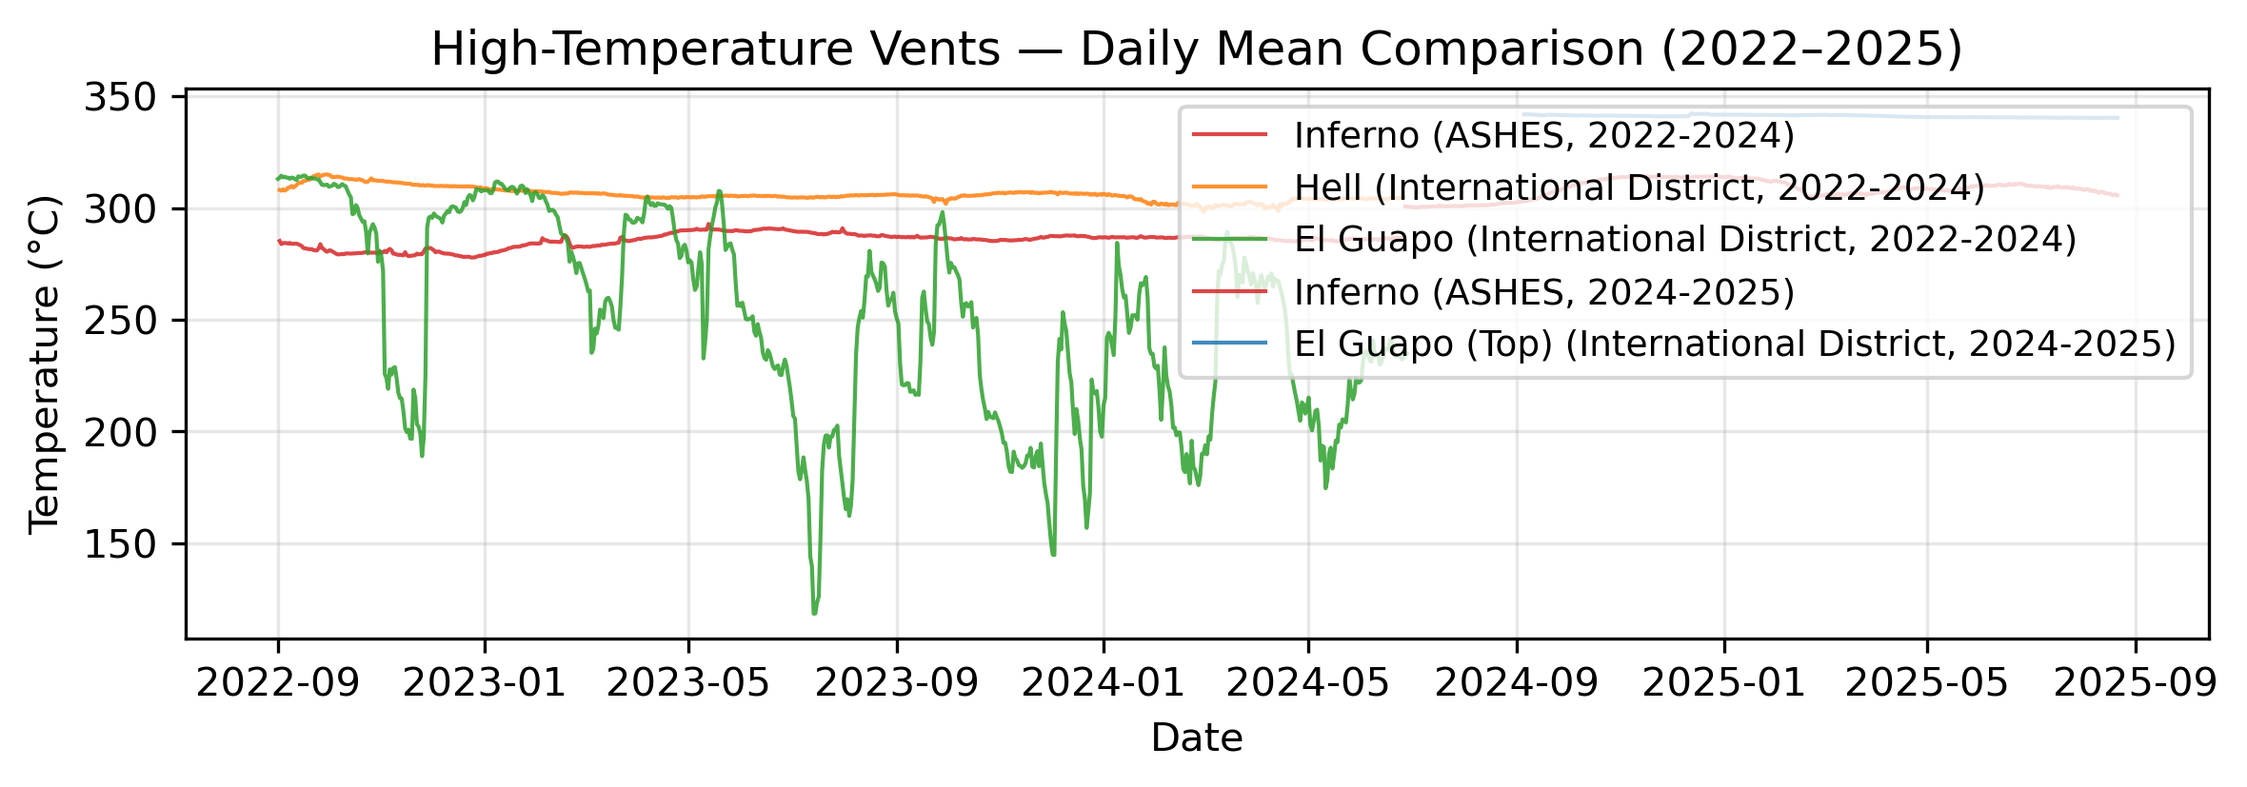
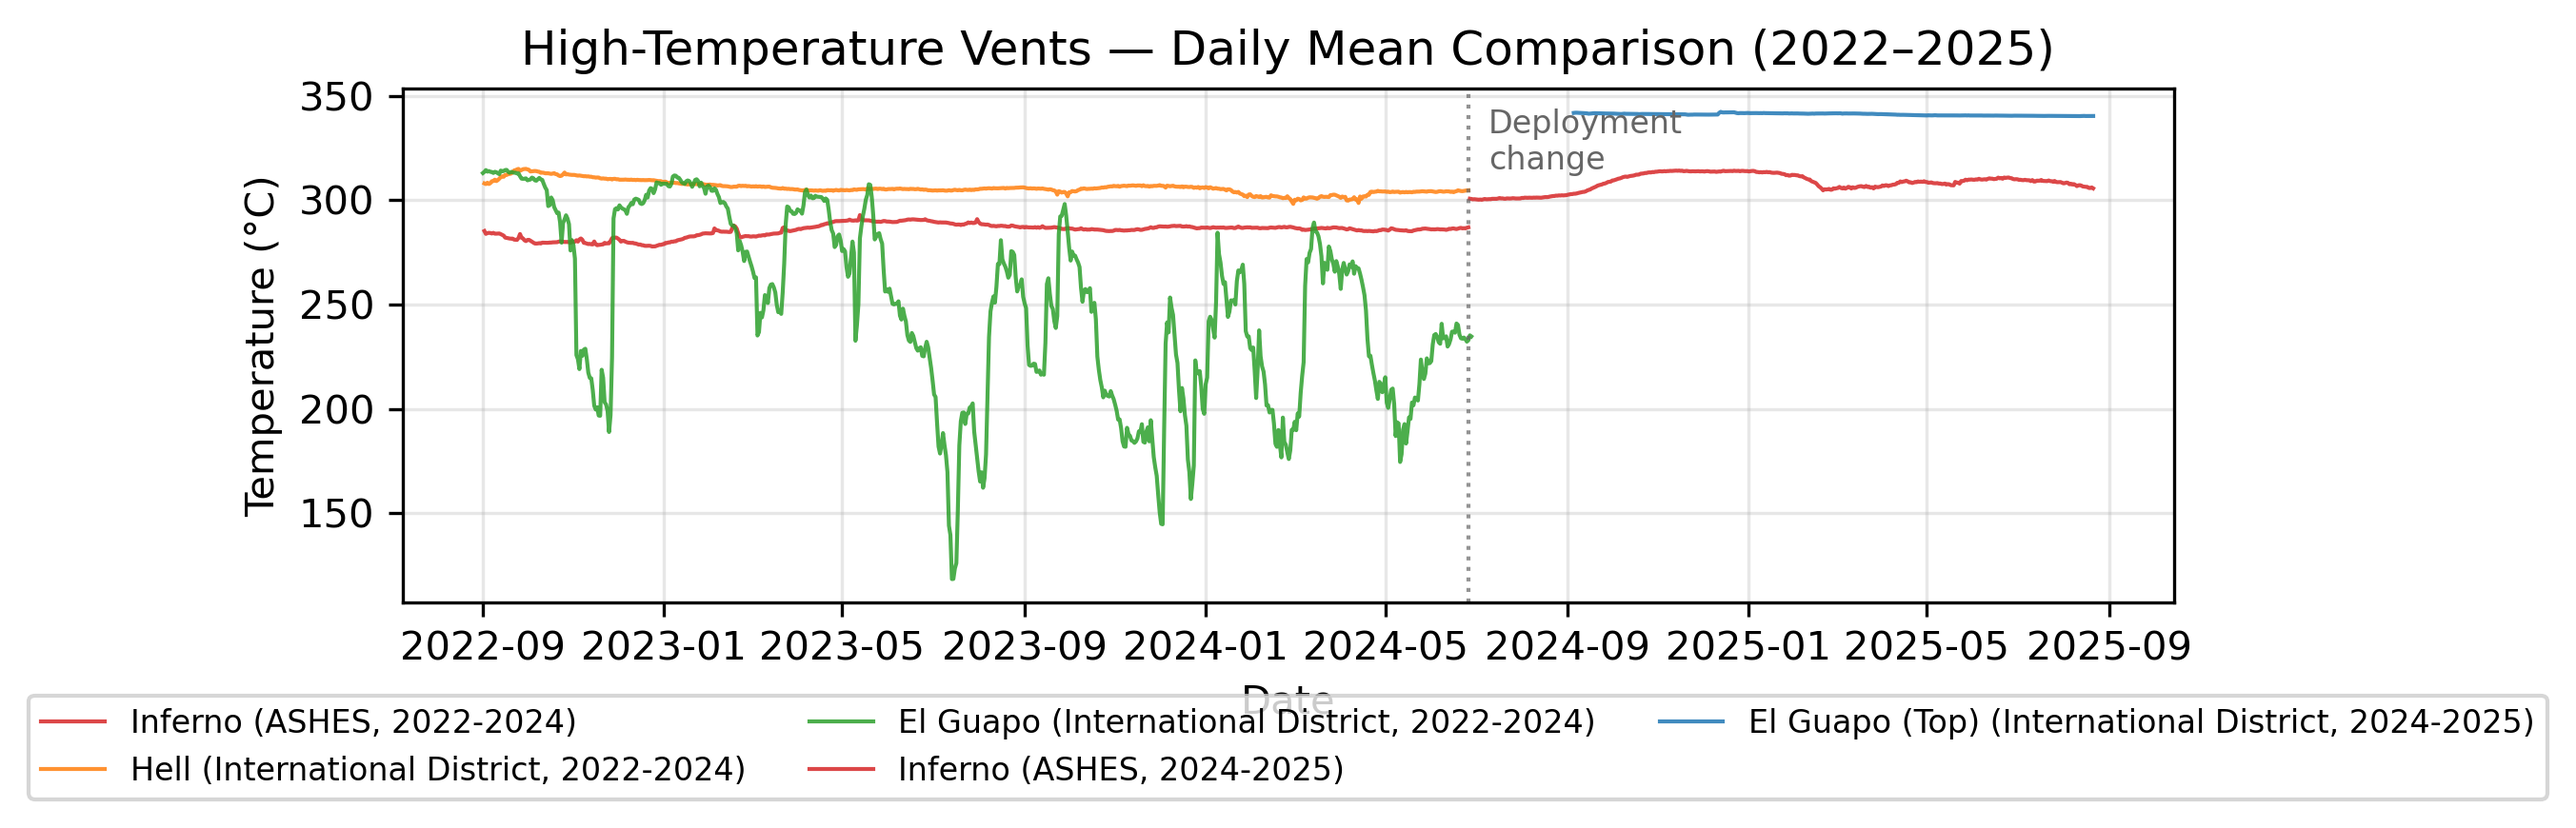
Add TMPSF diffuse flow panel to poster figure with deployment annotations
- Add TMPSF hot channel mean as second panel below vent temperatures
- Exclude channel 06 (sensor issues causing spurious +2.66°C jump)
- Add deployment change annotation (Jun 26, 2024) to all figures
- Move legend outside plot area on high-temp comparison figure
- Rename poster figure to poster_temp_bpr_tmpsf.png

Changed region(s): [[0.0, 0.0302, 0.9898, 0.9674], [0.0309, 0.6651, 0.0928, 0.7255]]

diff --git a/survey.py b/survey.py
@@ -16,6 +16,7 @@ from pathlib import Path
 DATA_2022 = Path("/home/jovyan/my_data/axial/axial_miso/2022_2024_MISO")
 DATA_2024 = Path("/home/jovyan/my_data/axial/axial_miso/2024_2025_MISO")
 BPR_PATH = Path("/home/jovyan/repos/specKitScience/my-analysis_botpt/outputs/data/differential_uplift_daily.parquet")
+TMPSF_PATH = Path("/home/jovyan/repos/specKitScience/my-analysis_tmpsf/outputs/data/tmpsf_2015-2026_daily.parquet")
 
 OUTPUT_DIR = Path(__file__).parent / "outputs"
 DATA_DIR = OUTPUT_DIR / "data"
@@ -316,6 +317,16 @@ def fig_survey_overview(records, fig_path):
         ax.tick_params(labelsize=8)
 
     axes[-1].set_xlabel("Date")
+
+    # Deployment change annotation on all panels
+    deploy_change = pd.Timestamp("2024-06-26")
+    for ax in axes:
+        xlim = ax.get_xlim()
+        xmin_ax = pd.Timestamp.fromordinal(int(xlim[0]))
+        xmax_ax = pd.Timestamp.fromordinal(int(xlim[1]))
+        if xmin_ax <= deploy_change <= xmax_ax:
+            ax.axvline(deploy_change, color="#666666", linestyle=":", linewidth=0.8, alpha=0.7)
+
     fig.suptitle("MISO Temperature Survey — All Recent Instruments (2022–2025)",
                  fontsize=13, fontweight="bold", y=1.01)
     plt.tight_layout()
@@ -343,16 +354,25 @@ def fig_hightemp_comparison(records, summary, fig_path):
     ax.set_xlabel("Date")
     ax.set_ylabel("Temperature (°C)")
     ax.set_title("High-Temperature Vents — Daily Mean Comparison (2022–2025)")
-    ax.legend(loc="upper right", fontsize=9)
+    ax.legend(loc="upper center", bbox_to_anchor=(0.5, -0.15),
+              ncol=3, fontsize=8, frameon=True)
     ax.grid(True, alpha=0.3)
-    plt.tight_layout()
+
+    # Deployment change annotation
+    deploy_change = pd.Timestamp("2024-06-26")
+    ax.axvline(deploy_change, color="#666666", linestyle=":", linewidth=1, alpha=0.7)
+    ax.annotate("Deployment\nchange", xy=(deploy_change, ax.get_ylim()[1]),
+                xytext=(5, -5), textcoords="offset points",
+                fontsize=8, color="#666666", va="top")
+
+    fig.subplots_adjust(bottom=0.25)
     fig.savefig(fig_path, dpi=300, bbox_inches="tight")
     plt.close(fig)
     print(f"Saved: {fig_path}")
 
 
-def fig_poster_bpr(records, summary, bpr, fig_path):
-    """Figure 3: Poster figure — high-temp vents + BPR overlay."""
+def fig_poster_bpr(records, summary, bpr, fig_path, tmpsf=None):
+    """Figure 3: Poster figure — high-temp vents + BPR overlay, with TMPSF panel."""
     high_recs = [r for r, s in zip(records, summary.itertuples())
                  if s.Classification == "High-temp"]
 
@@ -366,7 +386,12 @@ def fig_poster_bpr(records, summary, bpr, fig_path):
         ("El Guapo (Top)", "2024-2025"): {"color": "#2CA02C", "ls": "--", "lw": 1.4, "label": "El Guapo Top (ID, 2024–25)"},
     }
 
-    fig, ax1 = plt.subplots(figsize=(8, 8 * 6 / 14), dpi=300)
+    # Two panels if TMPSF available, otherwise single
+    if tmpsf is not None:
+        fig, (ax1, ax3) = plt.subplots(2, 1, figsize=(8, 8 * 8 / 14), dpi=300,
+                                        height_ratios=[3, 1], sharex=True)
+    else:
+        fig, ax1 = plt.subplots(figsize=(8, 8 * 6 / 14), dpi=300)
 
     for rec in high_recs:
         deployed = rec[rec["deployed"]]
@@ -380,9 +405,8 @@ def fig_poster_bpr(records, summary, bpr, fig_path):
                  color=style["color"], linestyle=style["ls"],
                  linewidth=style["lw"], alpha=0.85, label=style["label"])
 
-    ax1.set_xlabel("Date", fontsize=12)
-    ax1.set_ylabel("Temperature (°C)", fontsize=12)
-    ax1.tick_params(labelsize=10)
+    ax1.set_ylabel("Vent Temperature (°C)", fontsize=11)
+    ax1.tick_params(labelsize=9)
 
     # Constrain x-axis to temperature data range (with small padding)
     all_starts = []
@@ -404,8 +428,8 @@ def fig_poster_bpr(records, summary, bpr, fig_path):
         ax2.plot(bpr.index, bpr_cm,
                  color="#0868AC", alpha=0.5, linewidth=1.5, linestyle="--",
                  label="Differential uplift")
-        ax2.set_ylabel("Differential uplift (cm)", color="#0868AC", fontsize=12)
-        ax2.tick_params(axis="y", labelcolor="#0868AC", labelsize=10)
+        ax2.set_ylabel("Differential uplift (cm)", color="#0868AC", fontsize=11)
+        ax2.tick_params(axis="y", labelcolor="#0868AC", labelsize=9)
 
         # Constrain y-axis to visible BPR range (within the x-axis window)
         bpr_visible = bpr_cm.loc[xmin:xmax].dropna()
@@ -415,17 +439,58 @@ def fig_poster_bpr(records, summary, bpr, fig_path):
 
         lines1, labels1 = ax1.get_legend_handles_labels()
         lines2, labels2 = ax2.get_legend_handles_labels()
-        ax1.legend(lines1 + lines2, labels1 + labels2,
-                   loc="upper center", bbox_to_anchor=(0.5, -0.12),
-                   ncol=3, fontsize=9, frameon=True)
+        all_lines = lines1 + lines2
+        all_labels = labels1 + labels2
     else:
-        ax1.legend(loc="upper center", bbox_to_anchor=(0.5, -0.12),
-                   ncol=3, fontsize=9, frameon=True)
+        all_lines, all_labels = ax1.get_legend_handles_labels()
+
+    # TMPSF panel
+    if tmpsf is not None:
+        # Mean of hot channels (excluding ch06 which has sensor issues)
+        hot_channel_nums = [1, 2, 3, 5, 7, 8, 10, 12, 13, 14, 16]  # ch06 excluded
+        hot_cols = [f"temperature{n:02d}" for n in hot_channel_nums if f"temperature{n:02d}" in tmpsf.columns]
+        tmpsf_hot_mean = tmpsf[hot_cols].mean(axis=1)
+
+        ax3.plot(tmpsf_hot_mean.index, tmpsf_hot_mean.values,
+                 color="#7A0177", linewidth=0.8, alpha=0.85)
+        ax3.set_ylabel("TMPSF (°C)", fontsize=11)
+        ax3.set_xlabel("Date", fontsize=11)
+        ax3.tick_params(labelsize=9)
+        ax3.grid(True, alpha=0.3)
+        ax3.set_title("Diffuse Flow — ASHES (TMPSF hot channel mean, excl. ch06)",
+                      fontsize=10, loc="left", style="italic")
+
+        # Constrain TMPSF y-axis to visible range
+        tmpsf_visible = tmpsf_hot_mean.loc[xmin:xmax].dropna()
+        if len(tmpsf_visible) > 0:
+            ypad = (tmpsf_visible.max() - tmpsf_visible.min()) * 0.1
+            ax3.set_ylim(tmpsf_visible.min() - ypad, tmpsf_visible.max() + ypad)
+
+        # Deployment change annotation on TMPSF panel
+        deploy_change = pd.Timestamp("2024-06-26")  # ~when 2022-2024 ended, 2024-2025 began
+        if xmin <= deploy_change <= xmax:
+            ax3.axvline(deploy_change, color="#666666", linestyle=":", linewidth=1, alpha=0.7)
+            ax3.annotate("Deployment\nchange", xy=(deploy_change, tmpsf_visible.max()),
+                         xytext=(5, -5), textcoords="offset points",
+                         fontsize=7, color="#666666", va="top")
+    else:
+        ax1.set_xlabel("Date", fontsize=11)
+
+    # Deployment change annotation on main panel
+    deploy_change = pd.Timestamp("2024-06-26")
+    if xmin <= deploy_change <= xmax:
+        ax1.axvline(deploy_change, color="#666666", linestyle=":", linewidth=1, alpha=0.7)
+
+    # Legend below bottom axis
+    bottom_ax = ax3 if tmpsf is not None else ax1
+    bottom_ax.legend(all_lines, all_labels,
+                     loc="upper center", bbox_to_anchor=(0.5, -0.25),
+                     ncol=3, fontsize=8, frameon=True)
 
     ax1.set_title("Hydrothermal Vent Temperatures and Volcanic Deformation\nAxial Seamount (2022–2025)",
-                  fontsize=14, fontweight="bold")
+                  fontsize=13, fontweight="bold")
     ax1.grid(True, alpha=0.3)
-    fig.subplots_adjust(bottom=0.2)
+    plt.tight_layout()
     fig.savefig(fig_path, dpi=300, bbox_inches="tight")
     plt.close(fig)
     print(f"Saved: {fig_path}")
@@ -471,11 +536,17 @@ def main():
         bpr = pd.read_parquet(BPR_PATH)
         print(f"\nBPR data loaded: {bpr.index.min()} to {bpr.index.max()}")
 
+    # Load TMPSF
+    tmpsf = None
+    if TMPSF_PATH.exists():
+        tmpsf = pd.read_parquet(TMPSF_PATH)
+        print(f"TMPSF data loaded: {tmpsf.index.min()} to {tmpsf.index.max()}")
+
     # Figures
     print("\nGenerating figures...")
     fig_survey_overview(records, FIG_DIR / "survey_overview.png")
     fig_hightemp_comparison(records, summary, FIG_DIR / "survey_hightemp_comparison.png")
-    fig_poster_bpr(records, summary, bpr, FIG_DIR / "poster_temp_bpr.png")
+    fig_poster_bpr(records, summary, bpr, FIG_DIR / "poster_temp_bpr_tmpsf.png", tmpsf=tmpsf)
 
     print("\nDone!")
 
